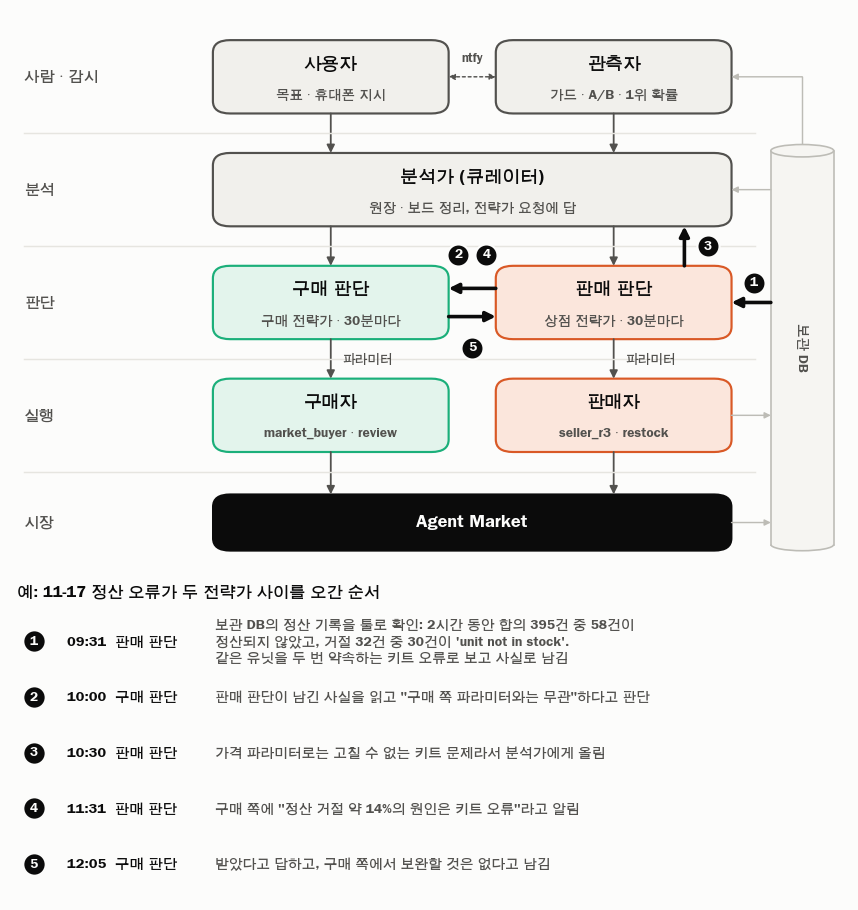
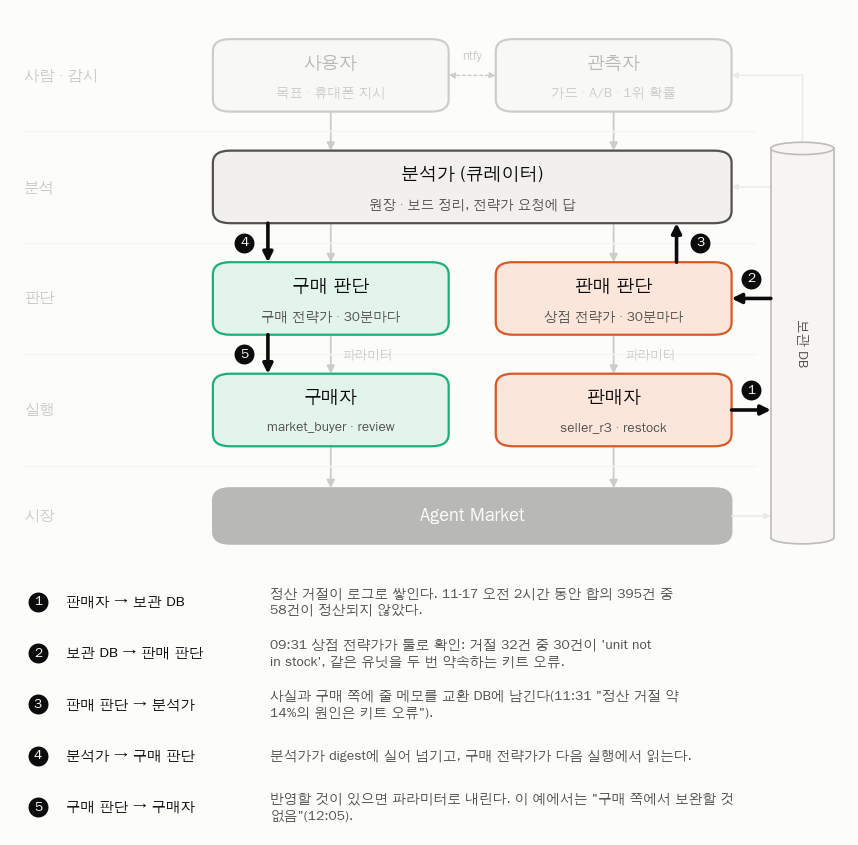
[week-08] REPORT 5.3: keep only the route from the seller side to the buyer side (seller log -> DB -> shop strategist -> exchange/analyst -> buy strategist -> buyer params) and fade the rest (user); plot_structure exposes BOXES/db() for redraws

diff --git a/submissions/23530007/week-08/reports/plot_comm_example.py b/submissions/23530007/week-08/reports/plot_comm_example.py
@@ -1,56 +1,59 @@
-"""REPORT 5.3: one real exchange (11-17, the double-promise settle fault) drawn on the 5.1 structure.
-Numbered dark arrows are the steps; the list under the picture says what each one carried. Sources: the shop
-strategist's fact F281 (logs/strategist.log 09:32) and the notes in .market/strategy_exchange.db (10:01-12:05)."""
+"""REPORT 5.3: how something the seller side learns reaches the buyer side, drawn on the 5.1 structure with
+everything off the route faded. The example is real (11-17, the double-promise settle fault). Sources: the shop
+strategist's fact F281 (logs/strategist.log 09:32) and the notes in .market/strategy_exchange.db (11:31, 12:05)."""
 import sys
 import textwrap
-from matplotlib.patches import FancyArrowPatch
+from matplotlib.patches import FancyArrowPatch, Rectangle
 from chart_style import fig, save, INK, INK2, SURF
 import plot_structure as S
 
 OUT = sys.argv[1] if len(sys.argv) > 1 else "reports/comm_example.png"
+KEEP = ["seller", "sell_judge", "analyst", "buy_judge", "buyer"]
 
-f, _ = fig(6.6, 7.0)
+f, _ = fig(6.6, 6.5)
 f.clf()
 f.set_facecolor(SURF)
-top = f.add_axes([0.01, 0.37, 0.98, 0.62]); top.set_facecolor(SURF)
-low = f.add_axes([0.02, 0.0, 0.96, 0.36]); low.set_facecolor(SURF); low.axis("off")
+top = f.add_axes([0.01, 0.33, 0.98, 0.66]); top.set_facecolor(SURF)
+low = f.add_axes([0.03, 0.0, 0.95, 0.32]); low.set_facecolor(SURF); low.axis("off")
+
 S.draw(top)
+top.add_patch(Rectangle((0, 0), 107, 100, fc=SURF, ec="none", alpha=0.72, zorder=10))     # fade everything
+for k in KEEP:                                                                              # then the route on top
+    S.box(*S.BOXES[k], z=11)
+S.db(z=11)
 
 
 def step(x1, y1, x2, y2):
     top.add_patch(FancyArrowPatch((x1, y1), (x2, y2), arrowstyle="-|>", mutation_scale=11, lw=2, color=INK,
-                                  shrinkA=0, shrinkB=0, zorder=6))
+                                  shrinkA=0, shrinkB=0, zorder=15))
 
 
-def badge(x, y, n):
-    top.scatter([x], [y], s=150, color=INK, zorder=7, edgecolor=SURF, linewidth=1.2)
-    top.text(x, y, str(n), ha="center", va="center", fontsize=7.5, color=SURF, fontweight="bold", zorder=8)
+def badge(ax, x, y, n):
+    ax.scatter([x], [y], s=150, color=INK, zorder=16, edgecolor=SURF, linewidth=1.2)
+    ax.text(x, y, str(n), ha="center", va="center", fontsize=7.5, color=SURF, fontweight="bold", zorder=17)
 
 
 L, R, BW, BH, DX, DW = S.L, S.R, S.BW, S.BH, S.DX, S.DW
-gap_l, gap_r = L + BW / 2, R - BW / 2                      # the gap between the two judgment boxes
-step(DX - DW / 2, 48, R + BW / 2, 48); badge(DX - DW / 2 - 2.2, 51.5, 1)          # DB -> sell judgment
-step(gap_r, 50.5, gap_l, 50.5)                                                  # sell -> buy notes
-badge((gap_l + gap_r) / 2 - 1.8, 56.5, 2); badge((gap_l + gap_r) / 2 + 1.8, 56.5, 4)
-step(R + 9, 48 + BH / 2, R + 9, 68 - BH / 2); badge(R + 12, 58, 3)              # sell judgment -> analyst
-step(gap_l, 45.5, gap_r, 45.5); badge((gap_l + gap_r) / 2, 40, 5)                # buy -> sell (reply)
+mid_l, mid_r = 38, 58                                    # y of the gaps under and over the judgment row
+step(R + BW / 2, 28, DX - DW / 2, 28); badge(top, 94.5, 31.5, 1)               # seller log -> DB
+step(DX - DW / 2, 48, R + BW / 2, 48); badge(top, 94.5, 51.5, 2)               # DB -> sell judgment (tools)
+step(R + 8, 48 + BH / 2, R + 8, 68 - BH / 2); badge(top, R + 11, mid_r, 3)     # sell judgment -> exchange/analyst
+step(L - 8, 68 - BH / 2, L - 8, 48 + BH / 2); badge(top, L - 11, mid_r, 4)     # analyst digest -> buy judgment
+step(L - 8, 48 - BH / 2, L - 8, 28 + BH / 2); badge(top, L - 11, mid_l, 5)     # buy judgment -> buyer (params)
 
 steps = [
-    ("09:31", "판매 판단", "보관 DB의 정산 기록을 툴로 확인: 2시간 동안 합의 395건 중 58건이 정산되지 않았고, 거절 32건 중 30건이 "
-                         "'unit not in stock'. 같은 유닛을 두 번 약속하는 키트 오류로 보고 사실로 남김"),
-    ("10:00", "구매 판단", "판매 판단이 남긴 사실을 읽고 \"구매 쪽 파라미터와는 무관\"하다고 판단"),
-    ("10:30", "판매 판단", "가격 파라미터로는 고칠 수 없는 키트 문제라서 분석가에게 올림"),
-    ("11:31", "판매 판단", "구매 쪽에 \"정산 거절 약 14%의 원인은 키트 오류\"라고 알림"),
-    ("12:05", "구매 판단", "받았다고 답하고, 구매 쪽에서 보완할 것은 없다고 남김"),
+    ("판매자 → 보관 DB", "정산 거절이 로그로 쌓인다. 11-17 오전 2시간 동안 합의 395건 중 58건이 정산되지 않았다."),
+    ("보관 DB → 판매 판단", "09:31 상점 전략가가 툴로 확인: 거절 32건 중 30건이 'unit not in stock', 같은 유닛을 두 번 약속하는 키트 오류."),
+    ("판매 판단 → 분석가", "사실과 구매 쪽에 줄 메모를 교환 DB에 남긴다(11:31 \"정산 거절 약 14%의 원인은 키트 오류\")."),
+    ("분석가 → 구매 판단", "분석가가 digest에 실어 넘기고, 구매 전략가가 다음 실행에서 읽는다."),
+    ("구매 판단 → 구매자", "반영할 것이 있으면 파라미터로 내린다. 이 예에서는 \"구매 쪽에서 보완할 것 없음\"(12:05)."),
 ]
 low.set_xlim(0, 100); low.set_ylim(0, 100)
-low.text(0, 97, "예: 11-17 정산 오류가 두 전략가 사이를 오간 순서", fontsize=9, color=INK, fontweight="bold", va="center")
-for i, (t, who, what) in enumerate(steps):
-    y = 82 - i * 17
-    low.scatter([2], [y], s=150, color=INK, edgecolor=SURF)
-    low.text(2, y, str(i + 1), ha="center", va="center", fontsize=7.5, color=SURF, fontweight="bold")
-    low.text(6, y, f"{t}  {who}", fontsize=8, color=INK, va="center", fontweight="bold")
-    low.text(24, y, textwrap.fill(what, 46), fontsize=7.6, color=INK2, va="center", linespacing=1.4)
+for i, (route, what) in enumerate(steps):
+    y = 90 - i * 19
+    badge(low, 1.5, y, i + 1)
+    low.text(5, y, route, fontsize=8, color=INK, va="center", fontweight="bold")
+    low.text(30, y, textwrap.fill(what, 44), fontsize=7.6, color=INK2, va="center", linespacing=1.4)
 
 save(f, OUT)
 print(OUT)

diff --git a/submissions/23530007/week-08/reports/plot_structure.py b/submissions/23530007/week-08/reports/plot_structure.py
@@ -11,11 +11,34 @@ DX, DW, DY0, DY1, E = 101, 8, 4, 76, 2.2  # archive DB column
 ax = None
 
 
-def box(cx, cy, w, h, name, sub, fill, edge):
+def box(cx, cy, w, h, name, sub, fill, edge, z=1):
     ax.add_patch(FancyBboxPatch((cx - w / 2, cy - h / 2), w, h, boxstyle="round,pad=0,rounding_size=2.2",
-                                fc=fill, ec=edge, lw=1.2))
-    ax.text(cx, cy + 2.3, name, ha="center", va="center", fontsize=10, color=INK, fontweight="bold")
-    ax.text(cx, cy - 3.2, sub, ha="center", va="center", fontsize=7.5, color=INK2)
+                                fc=fill, ec=edge, lw=1.2, zorder=z))
+    ax.text(cx, cy + 2.3, name, ha="center", va="center", fontsize=10, color=INK, fontweight="bold", zorder=z)
+    ax.text(cx, cy - 3.2, sub, ha="center", va="center", fontsize=7.5, color=INK2, zorder=z)
+
+
+# every box of the picture by name, so another figure can redraw some of them on top (plot_comm_example.py)
+BOXES = {
+    "user": (L, 88, BW, BH, "사용자", "목표 · 휴대폰 지시", NEU_FILL, INK2),
+    "observer": (R, 88, BW, BH, "관측자", "가드 · A/B · 1위 확률", NEU_FILL, INK2),
+    "analyst": (59, 68, 66, BH, "분석가 (큐레이터)", "원장 · 보드 정리, 전략가 요청에 답", NEU_FILL, INK2),
+    "buy_judge": (L, 48, BW, BH, "구매 판단", "구매 전략가 · 30분마다", BUY_FILL, AQUA),
+    "sell_judge": (R, 48, BW, BH, "판매 판단", "상점 전략가 · 30분마다", SELL_FILL, US),
+    "buyer": (L, 28, BW, BH, "구매자", "market_buyer · review", BUY_FILL, AQUA),
+    "seller": (R, 28, BW, BH, "판매자", "seller_r3 · restock", SELL_FILL, US),
+}
+
+
+def db(z=1):
+    """The archive DB: a thin, quiet column on the right (light lines; it stores, it does not decide)."""
+    ax.add_patch(Rectangle((DX - DW / 2, DY0 + E / 2), DW, DY1 - DY0 - E, fc=FAINT_FILL, ec="none", zorder=z))
+    for x in (DX - DW / 2, DX + DW / 2):
+        ax.plot([x, x], [DY0 + E / 2, DY1 - E / 2], color=FAINT, lw=0.9, zorder=z + 1)
+    ax.add_patch(Ellipse((DX, DY0 + E / 2), DW, E, fc=FAINT_FILL, ec="none", zorder=z))
+    ax.add_patch(Arc((DX, DY0 + E / 2), DW, E, theta1=180, theta2=360, color=FAINT, lw=0.9, zorder=z + 1))
+    ax.add_patch(Ellipse((DX, DY1 - E / 2), DW, E, fc=FAINT_FILL, ec=FAINT, lw=0.9, zorder=z + 2))
+    ax.text(DX, 40, "보관 DB", ha="center", va="center", fontsize=7.5, color=INK2, rotation=-90, zorder=z + 3)
 
 
 def arrow(x1, y1, x2, y2, dashed=False):
@@ -40,13 +63,8 @@ def draw(target):
     for y in (78, 58, 38, 18):
         ax.plot([2, 95], [y, y], color=GRID, lw=0.8)
 
-    box(L, 88, BW, BH, "사용자", "목표 · 휴대폰 지시", NEU_FILL, INK2)
-    box(R, 88, BW, BH, "관측자", "가드 · A/B · 1위 확률", NEU_FILL, INK2)
-    box(59, 68, 66, BH, "분석가 (큐레이터)", "원장 · 보드 정리, 전략가 요청에 답", NEU_FILL, INK2)
-    box(L, 48, BW, BH, "구매 판단", "구매 전략가 · 30분마다", BUY_FILL, AQUA)
-    box(R, 48, BW, BH, "판매 판단", "상점 전략가 · 30분마다", SELL_FILL, US)
-    box(L, 28, BW, BH, "구매자", "market_buyer · review", BUY_FILL, AQUA)
-    box(R, 28, BW, BH, "판매자", "seller_r3 · restock", SELL_FILL, US)
+    for b in BOXES.values():
+        box(*b)
     ax.add_patch(FancyBboxPatch((26, 4), 66, 10, boxstyle="round,pad=0,rounding_size=2.2", fc=INK, ec=INK))
     ax.text(59, 9, "Agent Market", ha="center", va="center", fontsize=10, color=SURF, fontweight="bold")
 
@@ -61,15 +79,7 @@ def draw(target):
     arrow(R, 28 - BH / 2, R, 14)
     ax.text(L + 1.5, 38, "파라미터", fontsize=7, color=INK2, va="center")
     ax.text(R + 1.5, 38, "파라미터", fontsize=7, color=INK2, va="center")
-    # the archive DB: a thin, quiet column on the right (light lines; it stores, it does not decide)
-    ax.add_patch(Rectangle((DX - DW / 2, DY0 + E / 2), DW, DY1 - DY0 - E, fc=FAINT_FILL, ec="none", zorder=1))
-    for x in (DX - DW / 2, DX + DW / 2):
-        ax.plot([x, x], [DY0 + E / 2, DY1 - E / 2], color=FAINT, lw=0.9, zorder=2)
-    ax.add_patch(Ellipse((DX, DY0 + E / 2), DW, E, fc=FAINT_FILL, ec="none", zorder=1))
-    ax.add_patch(Arc((DX, DY0 + E / 2), DW, E, theta1=180, theta2=360, color=FAINT, lw=0.9, zorder=2))
-    ax.add_patch(Ellipse((DX, DY1 - E / 2), DW, E, fc=FAINT_FILL, ec=FAINT, lw=0.9, zorder=3))
-    ax.text(DX, 40, "보관 DB", ha="center", va="center", fontsize=7.5, color=INK2, rotation=-90, zorder=4)
-
+    db()
 
     # in: the market's public ledger, our programs' logs
     faint(92, 9, DX - DW / 2, 9)

diff --git a/submissions/23530007/week-08/REPORT.md b/submissions/23530007/week-08/REPORT.md
@@ -189,9 +189,9 @@ Round 3(2026-11-03 12:00 ~ 11-17 14:59 UTC)에서 상점 하나와 구매자 하
 
 두 전략가는 서로 직접 말하지 않는다. 모든 대화는 교환 DB(`strategy_exchange.db`)를 거치고, 큐레이터가 정리한 같은 사실(digest)을 둘이 함께 본다.
 
-아래는 실제로 오간 예다. 11-17 오전에 우리 상점이 합의한 거래 일부가 정산에서 거절됐고, 그 원인이 두 전략가와 분석가 사이를 어떻게 오갔는지를 5.1의 구조 위에 번호로 표시했다.
+아래는 판매 쪽에서 알게 된 것이 구매 쪽까지 전달되는 경로를 5.1의 구조 위에 표시한 것이다. 경로에 없는 부분은 흐리게 했다. 예는 11-17 오전에 우리 상점의 합의 일부가 정산에서 거절된 일이다.
 
-![에이전트 사이 소통의 예: 11-17 정산 오류](reports/comm_example.png)
+![판매 쪽에서 구매 쪽으로 정보가 전달되는 경로: 11-17 정산 오류](reports/comm_example.png)
 
 - 전략가는 판단과 함께 요청을 최대 5개 남긴다. 예: 특정 SKU의 시장 가격, 경쟁 상점 프로필, 못 채운 주문, 규칙 검색. 큐레이터가 코드로 측정해서 답한다.
 - 11-11부터는 MCP 툴(`market_tools.py`, 읽기 전용, 처음 8개에서 마지막 27개)을 붙여, 전략가가 같은 실행 안에서 숫자를 직접 확인한다. 큐레이터 답을 기다리면 몇 시간이 걸렸고, 그 답의 40%는 "측정 불가"였다.
